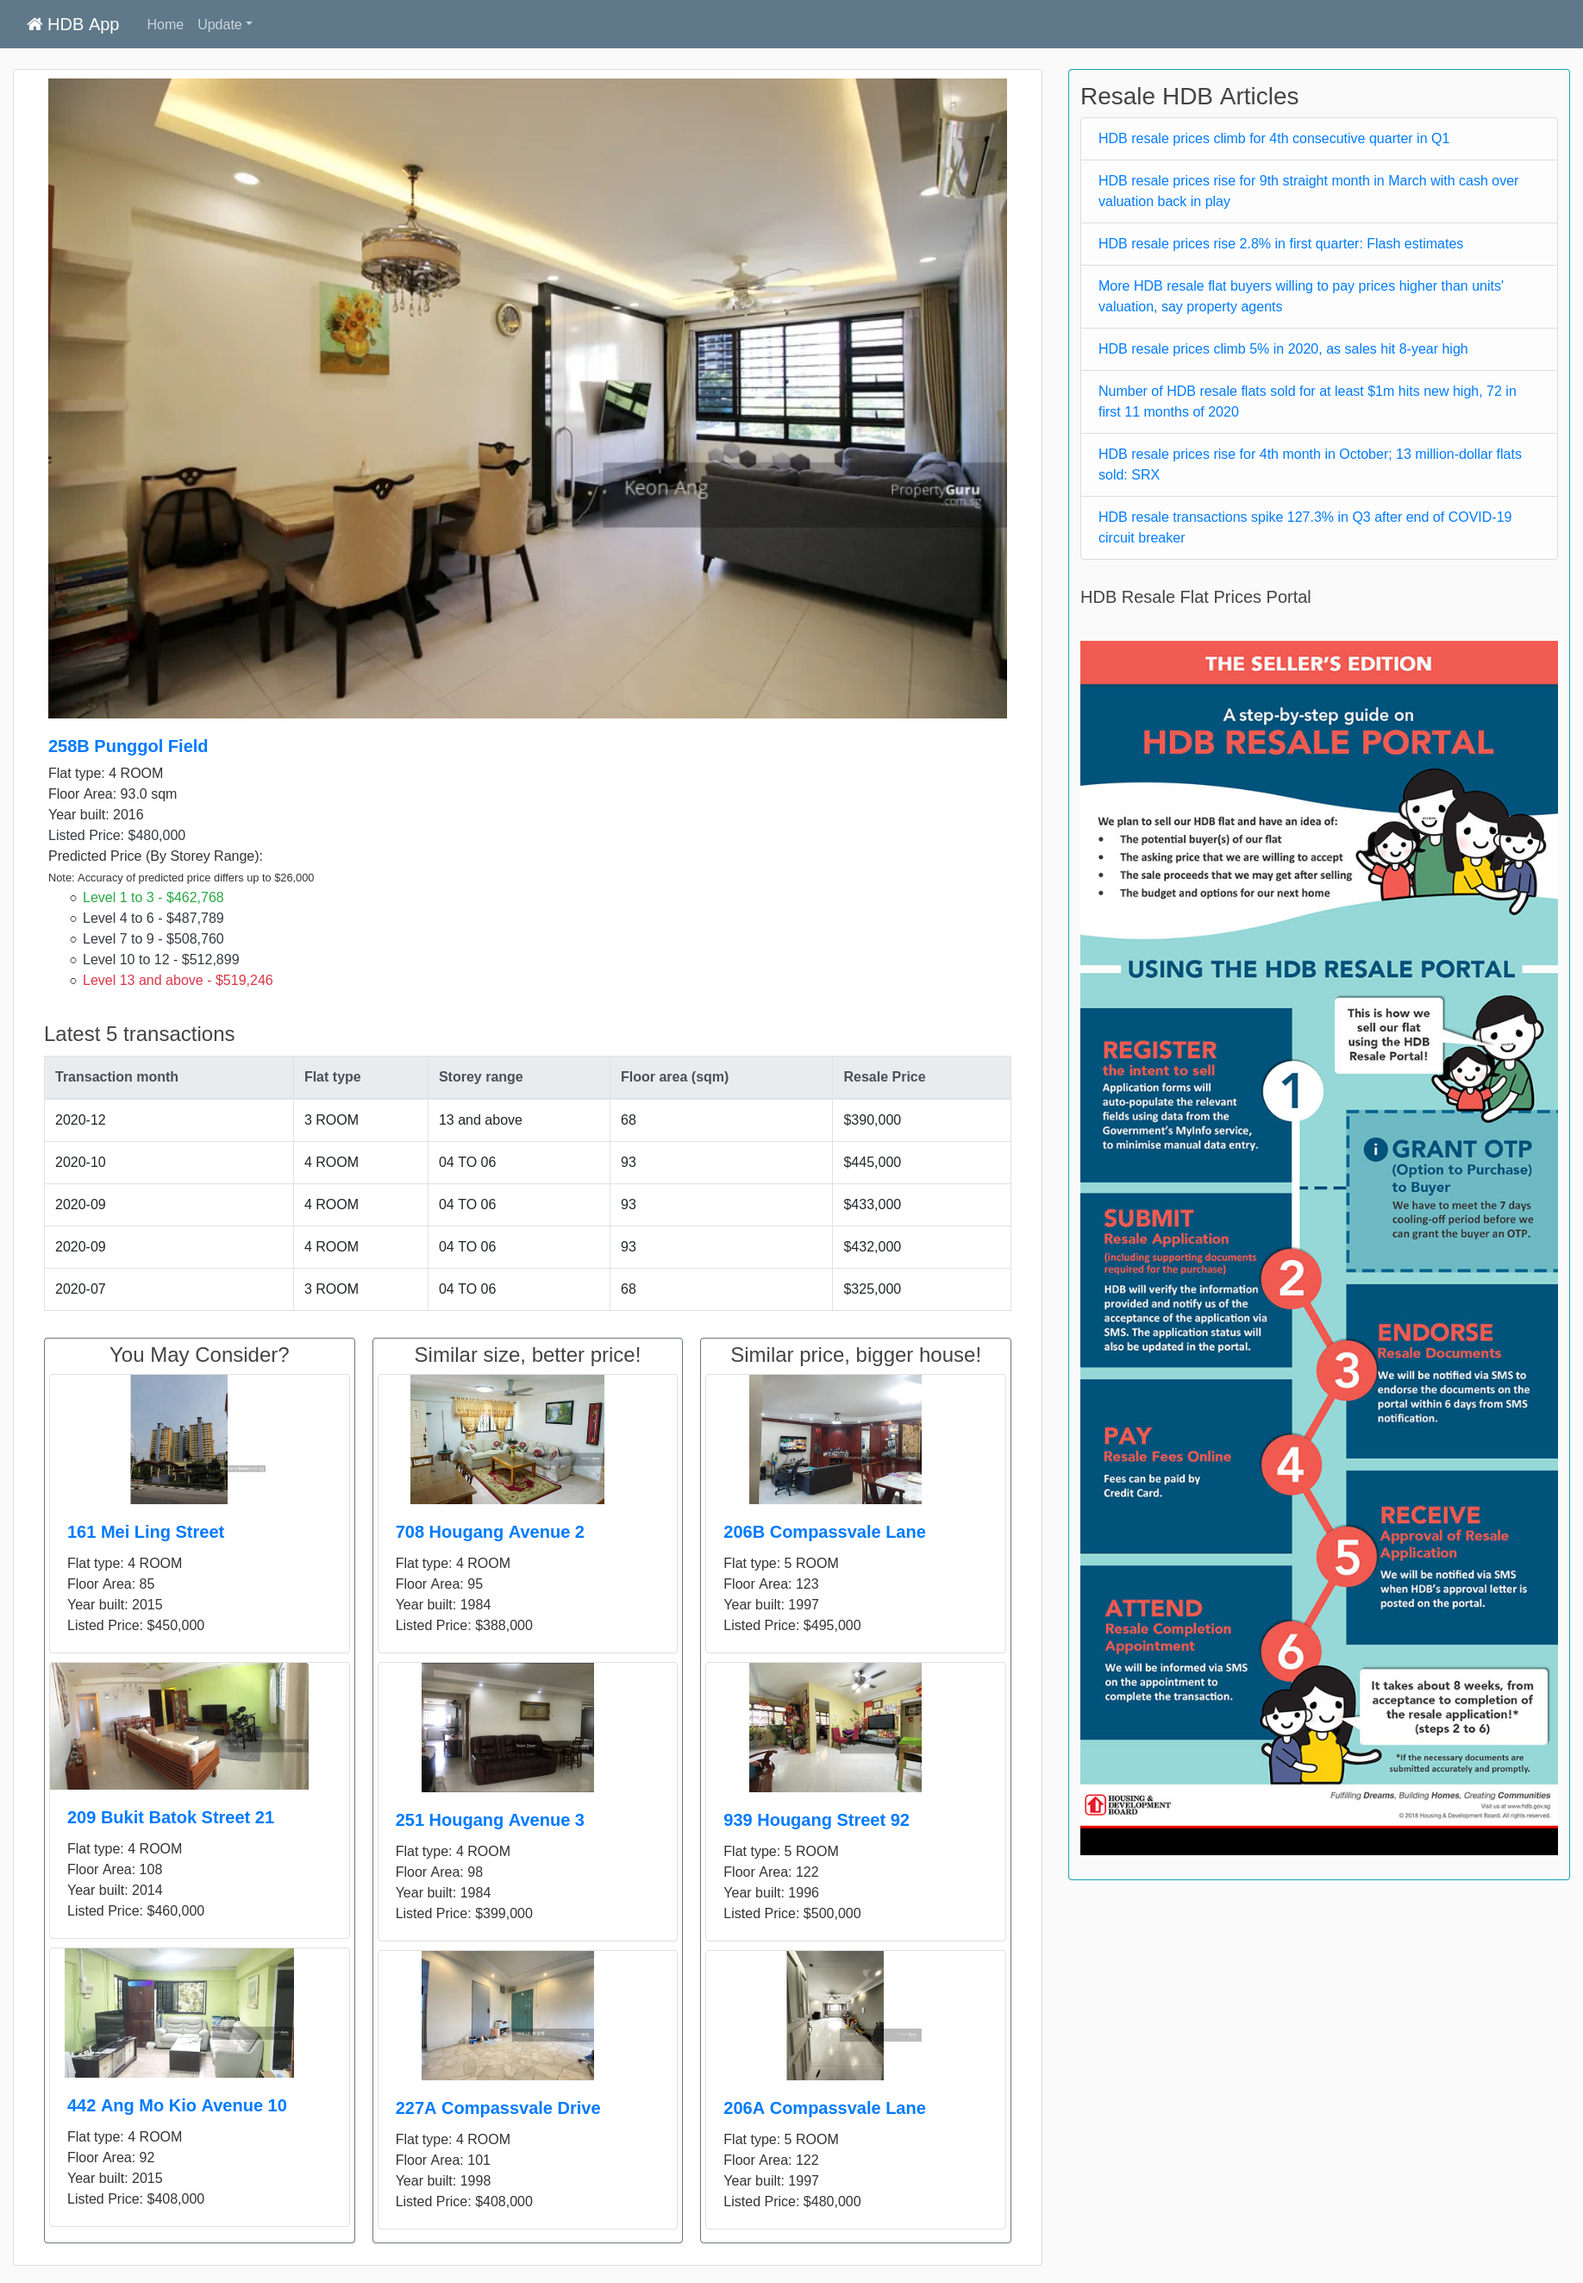
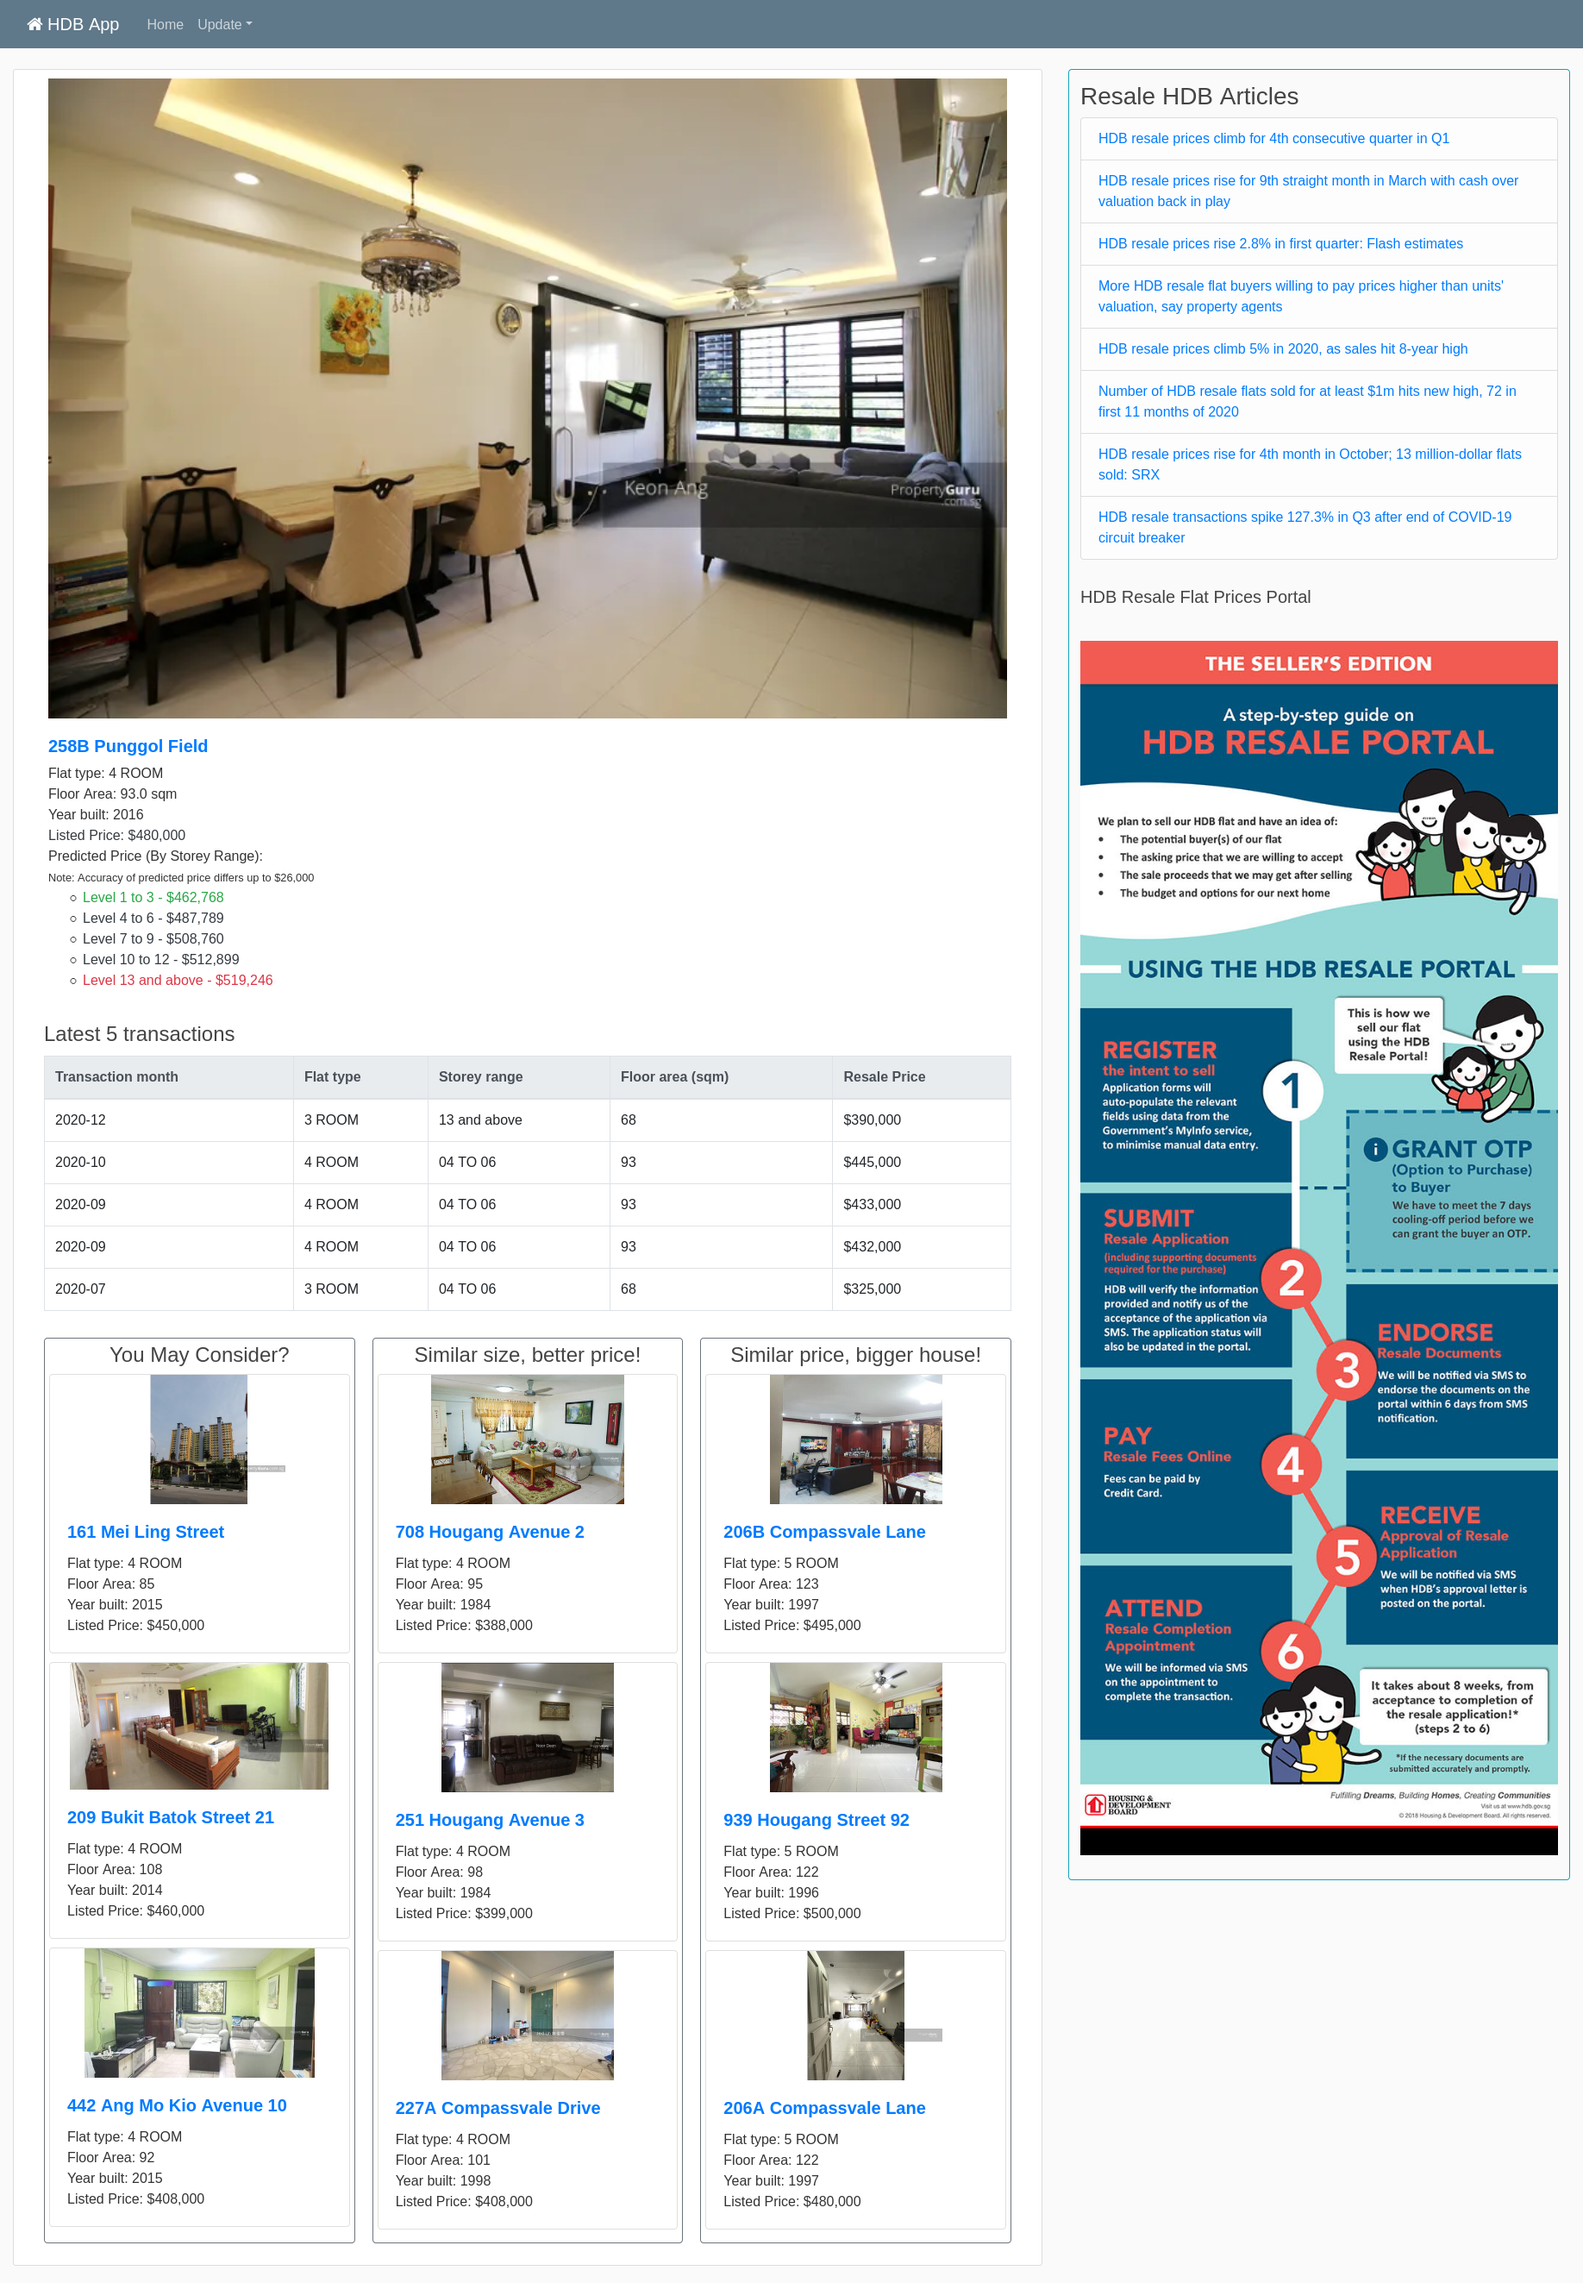
Update poster image

diff --git a/HDBResaleWeb/static/css/main.css b/HDBResaleWeb/static/css/main.css
@@ -46,5 +46,5 @@ p {
 	max-width: 300px;
 	max-height: 150px;
 	object-fit: contain;
-	object-position: center;
+	align-self: center;
 }
